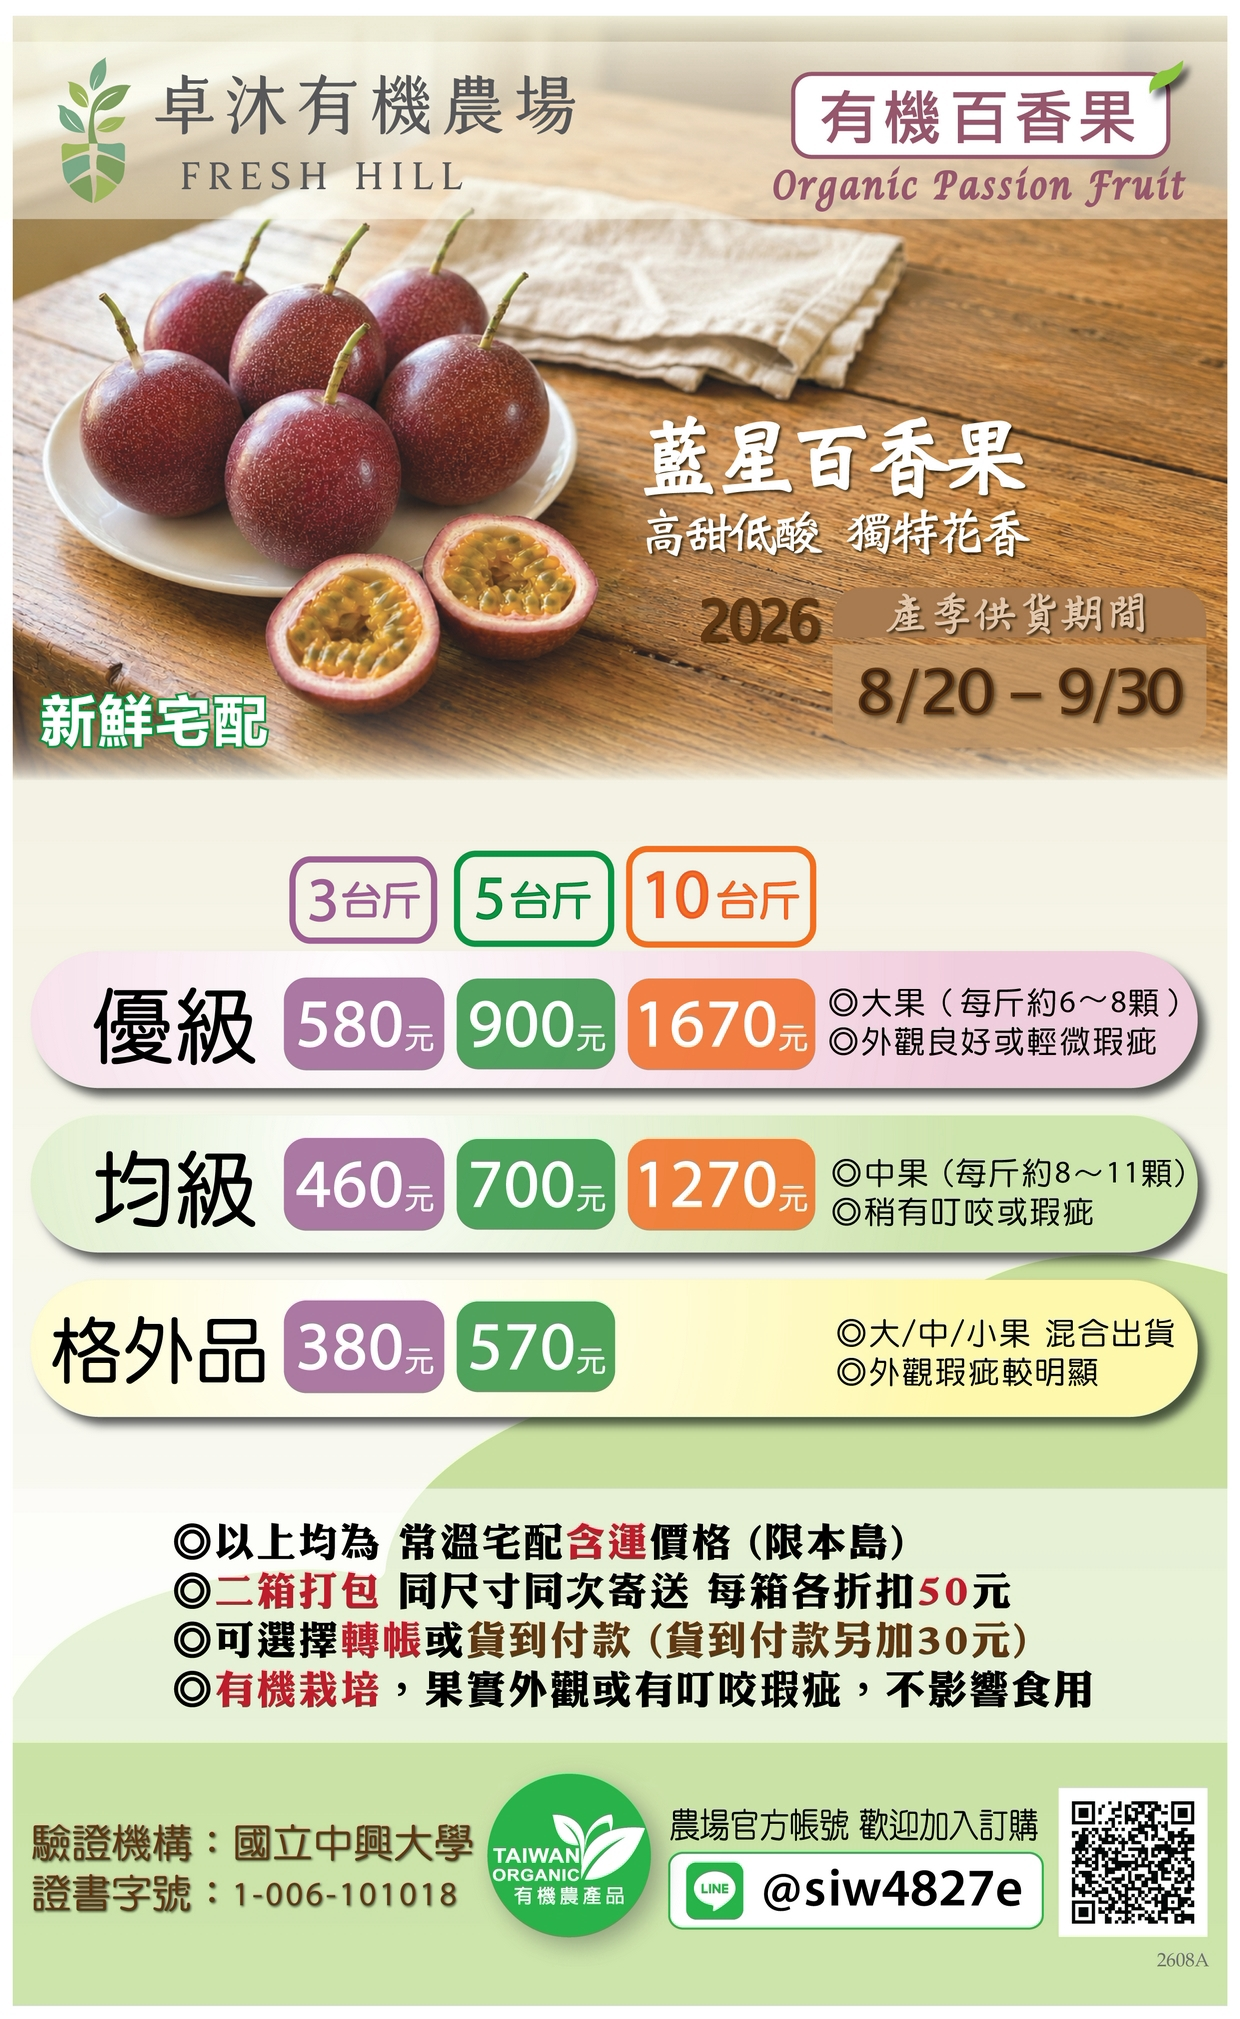
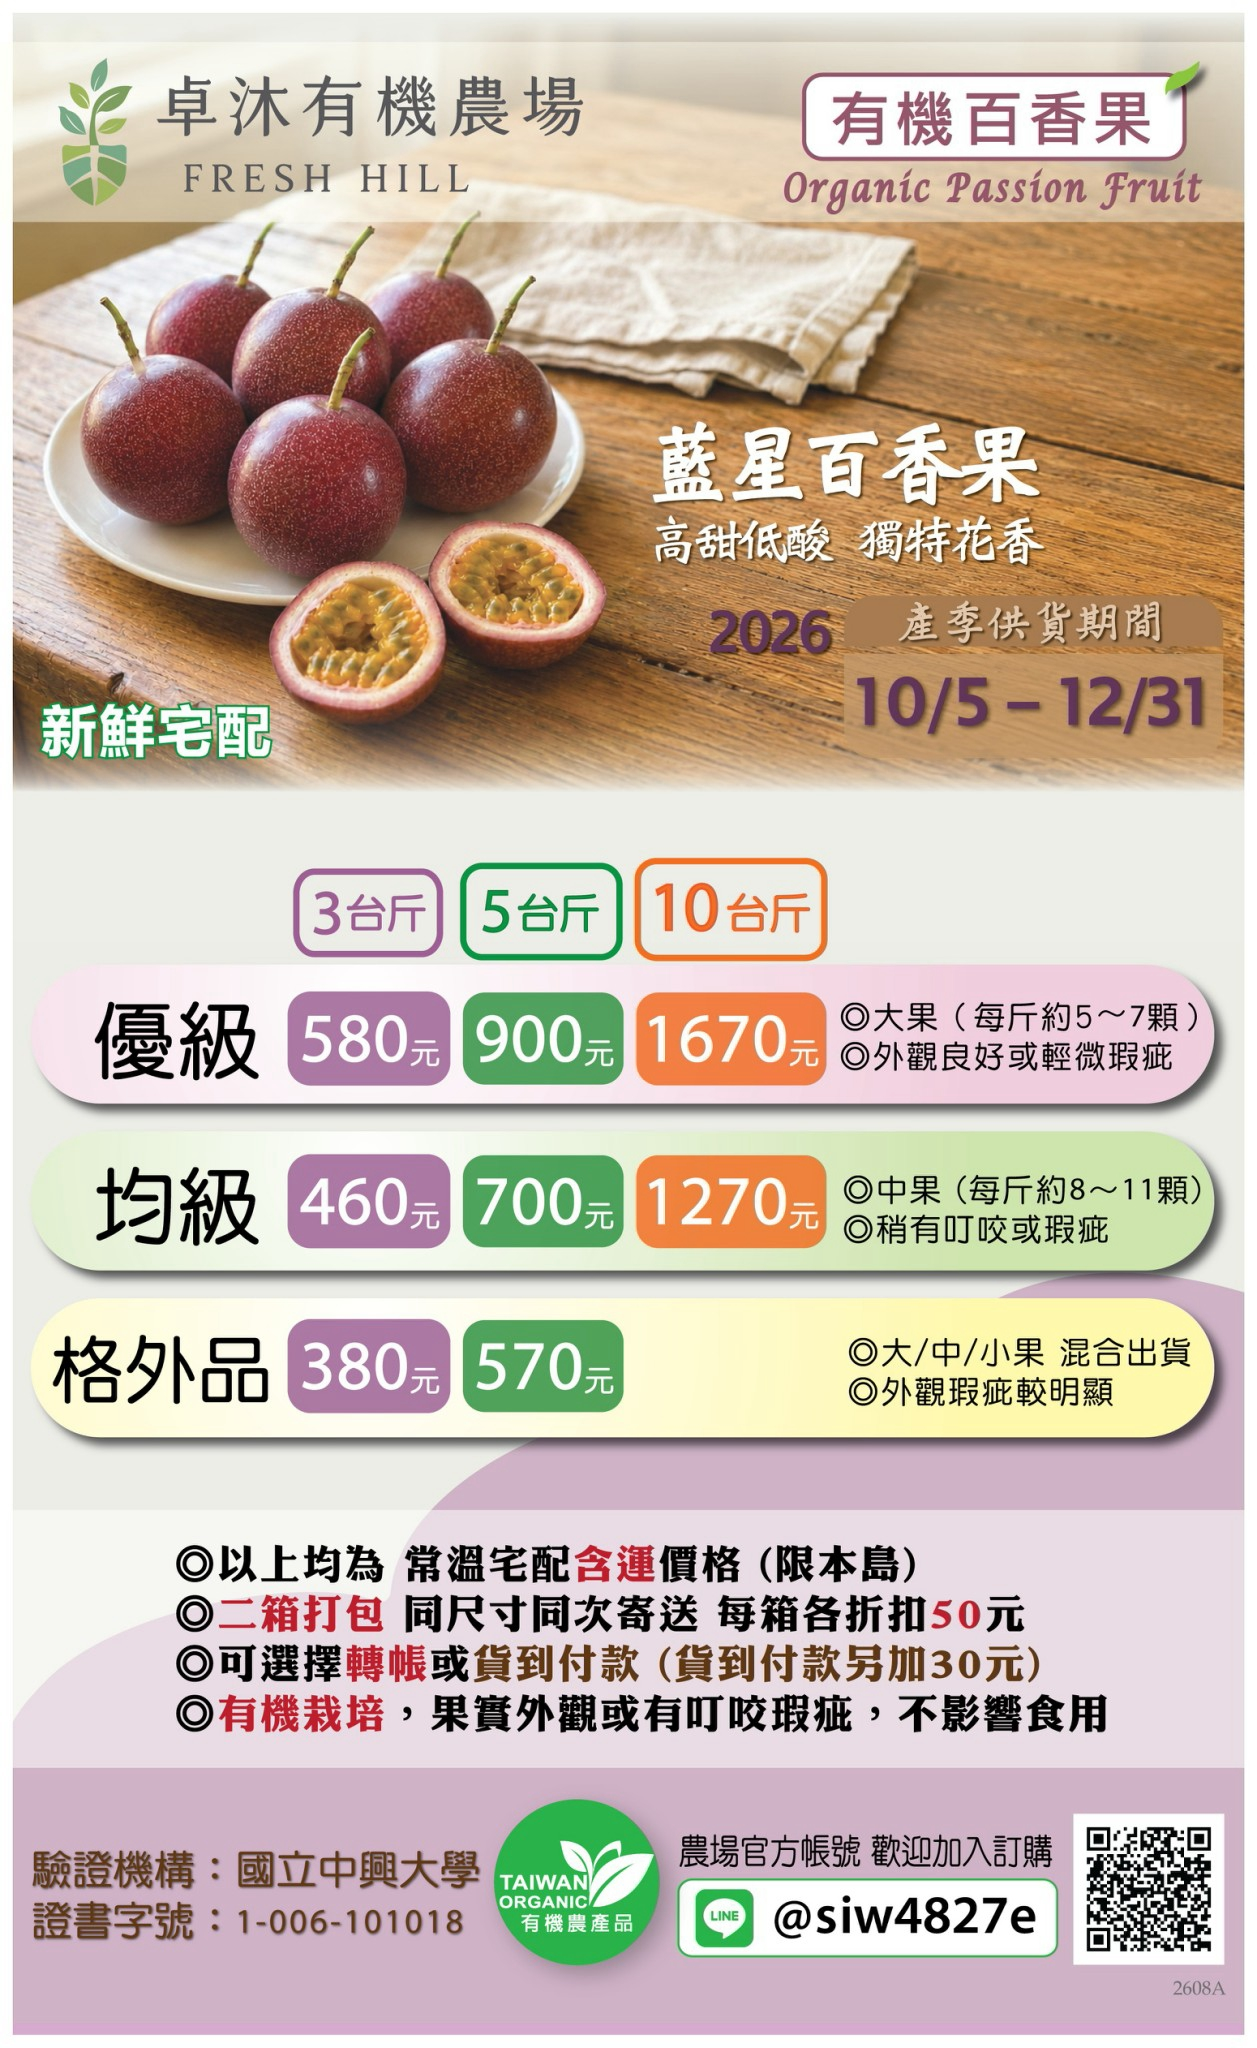
update passionfruit page

diff --git a/passionfruit.html b/passionfruit.html
@@ -45,10 +45,10 @@
                 <img class="img-fluid" src="images/passionfruit_2026_autumn.jpg" alt="..." />
                 <!-- Content -->
                 <div class="text-start">
-                    <h5 class="fw-bold">【藍星百香果】2026/9/1</h5>
+                    <h5 class="fw-bold">【藍星百香果】2026/10/5</h5>
                     <p>
                         <br>
-                        初秋的藍星百香果已開始採收出貨，產期預計到10月底，出貨規格為3台斤、5台斤、10台斤，歡迎訂購～🙏<br>
+                        秋冬季藍星百香果已開始採收，產期預計到12月底，出貨規格為3台斤、5台斤、10台斤，歡迎訂購～🙏<br>
                         <br>
                         尚需等待百香果熟成、採收、與排單出貨，無法立即出貨，請見諒！<br>
                     </p>
